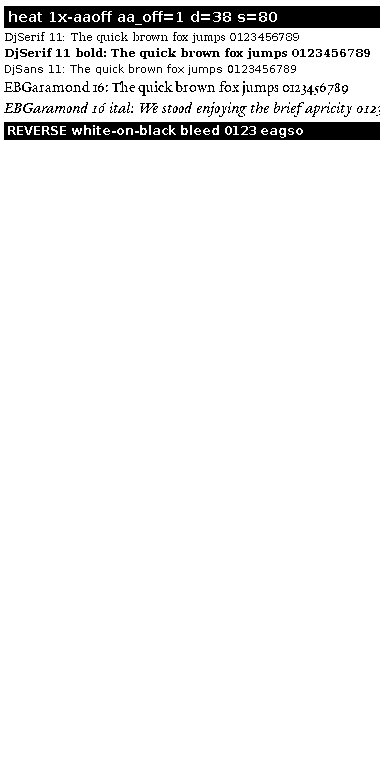
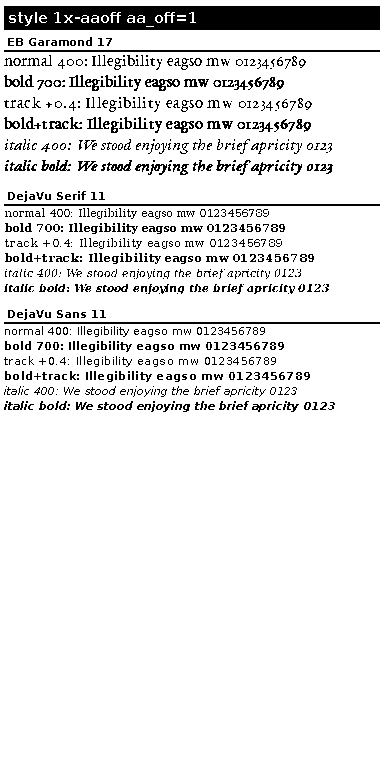
chore(pixelfont): matrix harness output (matrix.html, art sheets)

Changed region(s): [[0.0, 0.0, 1.0, 0.5447]]

diff --git a/ttmp/2026/07/16/ALMANACH-PIXELFONT--crisp-small-text-in-the-render-pipeline-via-pixel-bitmap-fonts/scripts/matrix.html b/ttmp/2026/07/16/ALMANACH-PIXELFONT--crisp-small-text-in-the-render-pipeline-via-pixel-bitmap-fonts/scripts/matrix.html
@@ -1,7 +1,7 @@
 <!doctype html><meta charset=utf-8><style>
 html,body{margin:0;background:#fff}
 .p{width:384px;padding:6px 4px;color:#000;box-sizing:border-box}
-.hdr{font-family:'DejaVu Sans',sans-serif;font-size:14px;font-weight:bold;background:#000;color:#fff;padding:3px 4px;margin-bottom:3px}
-.s{color:#000;margin:2px 0;white-space:nowrap;overflow:hidden}
-.rev{background:#000;color:#fff;font-family:'DejaVu Sans',sans-serif;font-weight:bold;font-size:12px;padding:2px 3px;margin-top:3px}
-</style><div class="p"><div class="hdr">heat 1x-aaoff aa_off=1  d=38 s=80</div><div class="s" style="font-family:'DejaVu Serif', serif;font-size:11px;line-height:14px">DjSerif 11: The quick brown fox jumps 0123456789</div><div class="s" style="font-family:'DejaVu Serif', serif;font-size:11px;line-height:14px;font-weight:700">DjSerif 11 bold: The quick brown fox jumps 0123456789</div><div class="s" style="font-family:'DejaVu Sans', sans-serif;font-size:11px;line-height:14px">DjSans 11: The quick brown fox jumps 0123456789</div><div class="s" style="font-family:'EB Garamond', serif;font-size:16px;line-height:19px">EBGaramond 16: The quick brown fox jumps 0123456789</div><div class="s" style="font-family:'EB Garamond', serif;font-size:16px;line-height:19px;font-style:italic">EBGaramond 16 ital: We stood enjoying the brief apricity 0123</div><div class="rev">REVERSE white-on-black bleed 0123 eagso</div></div>
+.hdr{font-family:'DejaVu Sans',sans-serif;font-size:15px;font-weight:bold;background:#000;color:#fff;padding:3px 4px;margin-bottom:3px}
+.lbl{font-family:'DejaVu Sans',sans-serif;font-size:11px;font-weight:bold;border-bottom:2px solid #000;padding:1px 3px;margin-top:5px}
+.s{color:#000;margin:1px 0;white-space:nowrap;overflow:hidden}
+.gap{height:5px}</style><div class="p"><div class="hdr">style 1x-aaoff aa_off=1</div><div class="lbl">EB Garamond 17</div><div class="s" style="font-family:'EB Garamond', serif;font-size:17px;line-height:20px;font-weight:400">normal 400: Illegibility eagso mw 0123456789</div><div class="s" style="font-family:'EB Garamond', serif;font-size:17px;line-height:20px;font-weight:700">bold 700: Illegibility eagso mw 0123456789</div><div class="s" style="font-family:'EB Garamond', serif;font-size:17px;line-height:20px;font-weight:400;letter-spacing:0.4px">track +0.4: Illegibility eagso mw 0123456789</div><div class="s" style="font-family:'EB Garamond', serif;font-size:17px;line-height:20px;font-weight:700;letter-spacing:0.3px">bold+track: Illegibility eagso mw 0123456789</div><div class="s" style="font-family:'EB Garamond', serif;font-size:17px;line-height:20px;font-weight:400;font-style:italic">italic 400: We stood enjoying the brief apricity 0123</div><div class="s" style="font-family:'EB Garamond', serif;font-size:17px;line-height:20px;font-weight:700;font-style:italic">italic bold: We stood enjoying the brief apricity 0123</div><div class="gap"></div><div class="lbl">DejaVu Serif 11</div><div class="s" style="font-family:'DejaVu Serif', serif;font-size:11px;line-height:14px;font-weight:400">normal 400: Illegibility eagso mw 0123456789</div><div class="s" style="font-family:'DejaVu Serif', serif;font-size:11px;line-height:14px;font-weight:700">bold 700: Illegibility eagso mw 0123456789</div><div class="s" style="font-family:'DejaVu Serif', serif;font-size:11px;line-height:14px;font-weight:400;letter-spacing:0.4px">track +0.4: Illegibility eagso mw 0123456789</div><div class="s" style="font-family:'DejaVu Serif', serif;font-size:11px;line-height:14px;font-weight:700;letter-spacing:0.3px">bold+track: Illegibility eagso mw 0123456789</div><div class="s" style="font-family:'DejaVu Serif', serif;font-size:11px;line-height:14px;font-weight:400;font-style:italic">italic 400: We stood enjoying the brief apricity 0123</div><div class="s" style="font-family:'DejaVu Serif', serif;font-size:11px;line-height:14px;font-weight:700;font-style:italic">italic bold: We stood enjoying the brief apricity 0123</div><div class="gap"></div><div class="lbl">DejaVu Sans 11</div><div class="s" style="font-family:'DejaVu Sans', sans-serif;font-size:11px;line-height:14px;font-weight:400">normal 400: Illegibility eagso mw 0123456789</div><div class="s" style="font-family:'DejaVu Sans', sans-serif;font-size:11px;line-height:14px;font-weight:700">bold 700: Illegibility eagso mw 0123456789</div><div class="s" style="font-family:'DejaVu Sans', sans-serif;font-size:11px;line-height:14px;font-weight:400;letter-spacing:0.4px">track +0.4: Illegibility eagso mw 0123456789</div><div class="s" style="font-family:'DejaVu Sans', sans-serif;font-size:11px;line-height:14px;font-weight:700;letter-spacing:0.3px">bold+track: Illegibility eagso mw 0123456789</div><div class="s" style="font-family:'DejaVu Sans', sans-serif;font-size:11px;line-height:14px;font-weight:400;font-style:italic">italic 400: We stood enjoying the brief apricity 0123</div><div class="s" style="font-family:'DejaVu Sans', sans-serif;font-size:11px;line-height:14px;font-weight:700;font-style:italic">italic bold: We stood enjoying the brief apricity 0123</div><div class="gap"></div></div>
